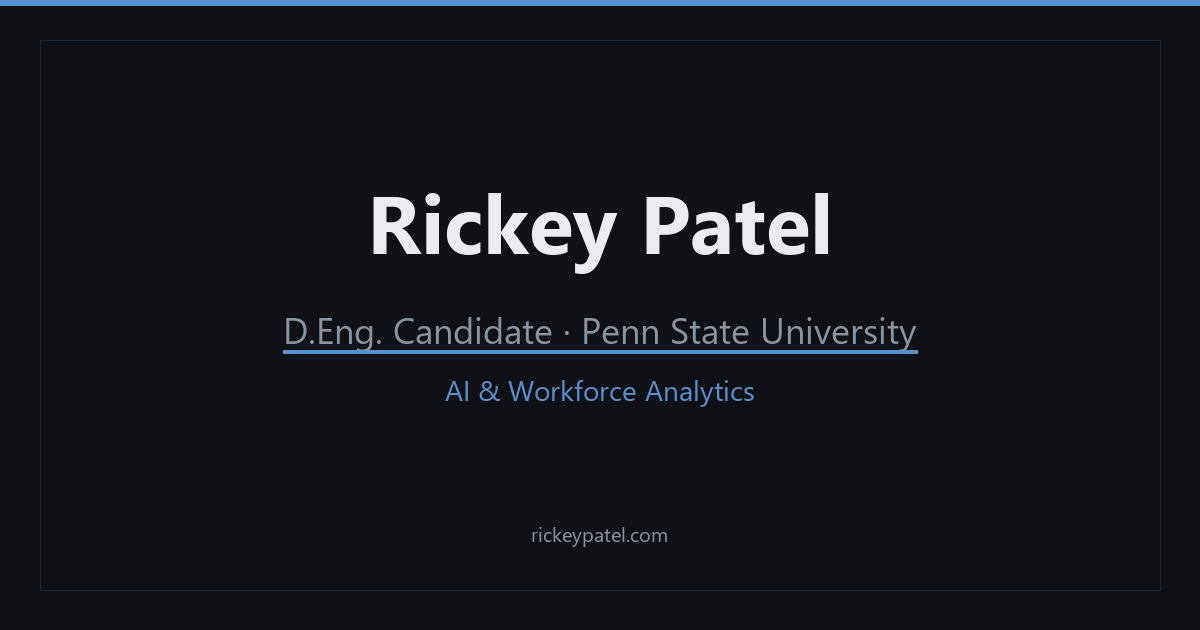
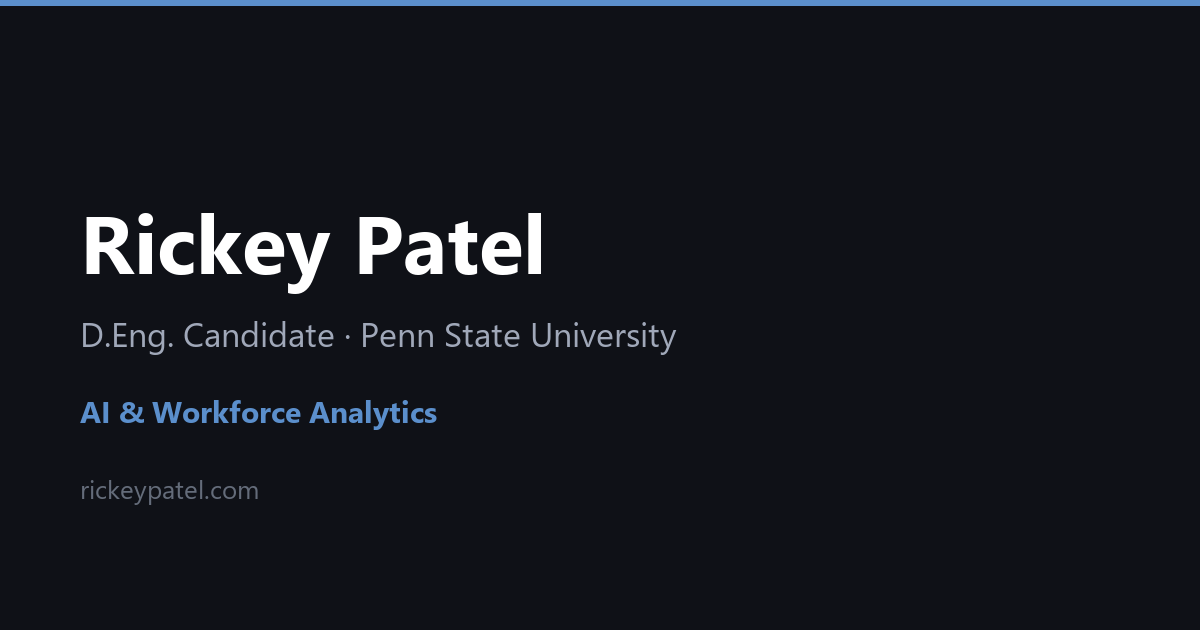
pre-merge polish: fictional employers, clean og:url, og-preview sans underline
- Replace Apexon Technologies → Apexara Technologies (real company)
- Replace Brightfield Analytics → Luminos Analytics (near-match to Brightfield Group)
- Replace Corebridge Solutions → Keybridge Data Group (near-match to Corebridge Financial)
- og:url tags updated to clean paths (/research, /pipelines, /teaching, /contact)
- og-preview.png regenerated without underline under subtitle line

diff --git a/research-demo.html b/research-demo.html
@@ -822,13 +822,13 @@ const G_TITLES   = ['Software Engineer','Data Scientist','ML Engineer','Financia
   'DevOps Engineer','MLOps Engineer','Business Intelligence Analyst','Strategy Consultant','Applied Scientist',
   'Data Engineer','Product Manager','Cybersecurity Analyst','Deep Learning Engineer','Research Scientist',
   'Systems Engineer','Principal Engineer','Staff Software Engineer','Analytics Engineer'];
-const G_COMPANIES = ['Nexlify Systems','Veridian Analytics','Crestview Intelligence','Apexon Technologies',
+const G_COMPANIES = ['Nexlify Systems','Veridian Analytics','Crestview Intelligence','Apexara Technologies',
   'Northgate Labs','Cascade Consulting Group','Meridian Defense Solutions','Stoneworks Data',
-  'Brightfield Analytics','Orion AI Group','Cloudpeak Technologies','Ironbridge Consulting',
+  'Luminos Analytics','Orion AI Group','Cloudpeak Technologies','Ironbridge Consulting',
   'Stratum Engineering','Vantage AI Research','Highbury Systems','Clearwater Data Co.',
   'PeakPath Technologies','Elara Analytics','Dept. of Workforce Innovation',
   'Natl. Technology Authority','Bureau of AI Policy','Allied Data Sciences',
-  'Axiom Federal','Prism Analytics','Corebridge Solutions'];
+  'Axiom Federal','Prism Analytics','Keybridge Data Group'];
 const G_SKILLS   = ['Python','SQL','Spark','TensorFlow','Docker','Kubernetes','Java','Scala','GCP','AWS',
   'Azure','PyTorch','Airflow','BigQuery','dbt','Tableau','Power BI','Scikit-learn','Pandas','NumPy',
   'MLOps','Terraform','LangChain','Hugging Face','REST API','Git','Agile','Spark Streaming','FastAPI','Rust'];

diff --git a/research.html b/research.html
@@ -10,7 +10,7 @@
 <meta name="description" content="Doctoral research by Rickey Patel on AI-driven labor market shifts, O*NET competency mapping, and digital equity in spiritual labor platforms.">
 <meta property="og:title" content="Research &amp; Publications · Rickey Patel">
 <meta property="og:description" content="Doctoral research by Rickey Patel on AI-driven labor market shifts, O*NET competency mapping, and digital equity in spiritual labor platforms.">
-<meta property="og:url" content="https://rickeypatel.com/research.html">
+<meta property="og:url" content="https://rickeypatel.com/research">
 <meta property="og:type" content="website">
 <meta property="og:image" content="https://rickeypatel.com/og-preview.png">
 <meta name="twitter:card" content="summary_large_image">

diff --git a/teaching.html b/teaching.html
@@ -10,7 +10,7 @@
 <meta name="description" content="Rickey Patel's graduate curriculum: CSC 894 Healthcare AI Capstone at Penn State Great Valley, Clinical Stewardship rubric, and XAI ethics.">
 <meta property="og:title" content="Teaching &amp; Pedagogy · Rickey Patel">
 <meta property="og:description" content="Rickey Patel's graduate curriculum: CSC 894 Healthcare AI Capstone at Penn State Great Valley, Clinical Stewardship rubric, and XAI ethics.">
-<meta property="og:url" content="https://rickeypatel.com/teaching.html">
+<meta property="og:url" content="https://rickeypatel.com/teaching">
 <meta property="og:type" content="website">
 <meta property="og:image" content="https://rickeypatel.com/og-preview.png">
 <meta name="twitter:card" content="summary_large_image">

diff --git a/pipelines.html b/pipelines.html
@@ -10,7 +10,7 @@
 <meta name="description" content="Production GCP and HPC pipelines by Rickey Patel: job postings intelligence, RJLD multi-label classification, and ROAR HPC engineering.">
 <meta property="og:title" content="Pipelines &amp; Engineering · Rickey Patel">
 <meta property="og:description" content="Production GCP and HPC pipelines by Rickey Patel: job postings intelligence, RJLD multi-label classification, and ROAR HPC engineering.">
-<meta property="og:url" content="https://rickeypatel.com/pipelines.html">
+<meta property="og:url" content="https://rickeypatel.com/pipelines">
 <meta property="og:type" content="website">
 <meta property="og:image" content="https://rickeypatel.com/og-preview.png">
 <meta name="twitter:card" content="summary_large_image">

diff --git a/contact.html b/contact.html
@@ -10,7 +10,7 @@
 <meta name="description" content="Contact Rickey Patel — open to research collaboration, speaking engagements, and conversations about AI, labor markets, and workforce analytics.">
 <meta property="og:title" content="Contact · Rickey Patel">
 <meta property="og:description" content="Contact Rickey Patel — open to research collaboration, speaking engagements, and conversations about AI, labor markets, and workforce analytics.">
-<meta property="og:url" content="https://rickeypatel.com/contact.html">
+<meta property="og:url" content="https://rickeypatel.com/contact">
 <meta property="og:type" content="website">
 <meta property="og:image" content="https://rickeypatel.com/og-preview.png">
 <meta name="twitter:card" content="summary_large_image">
